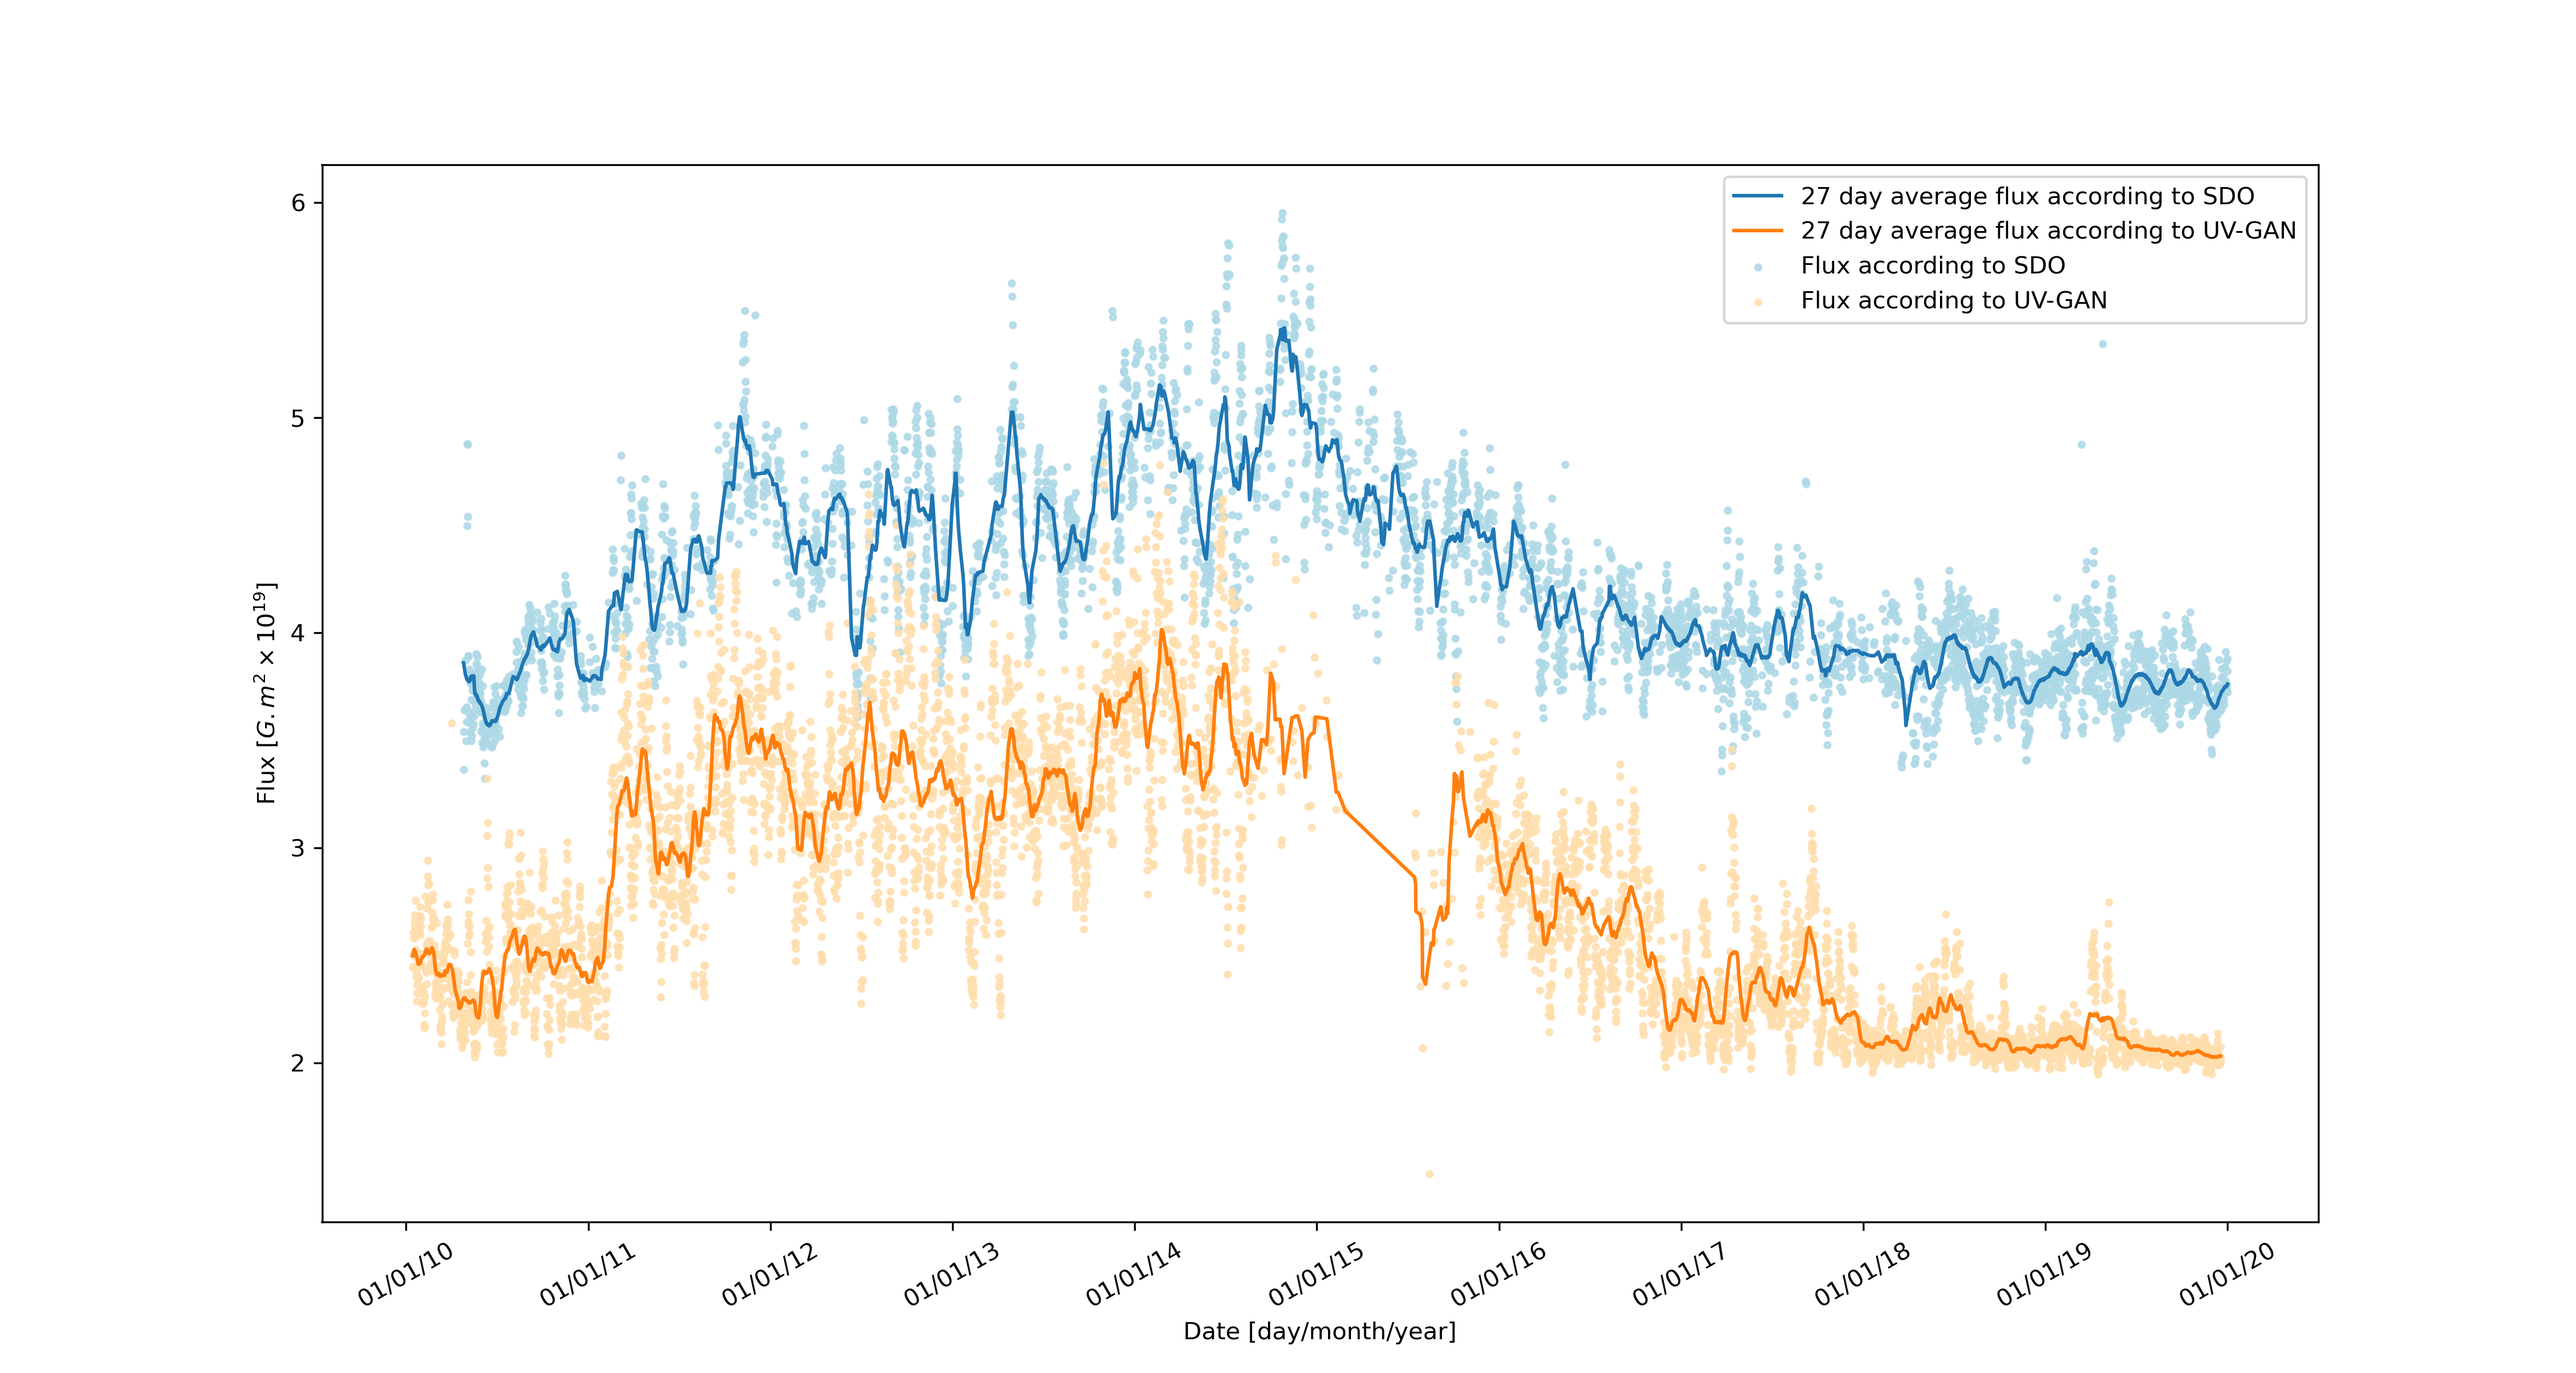
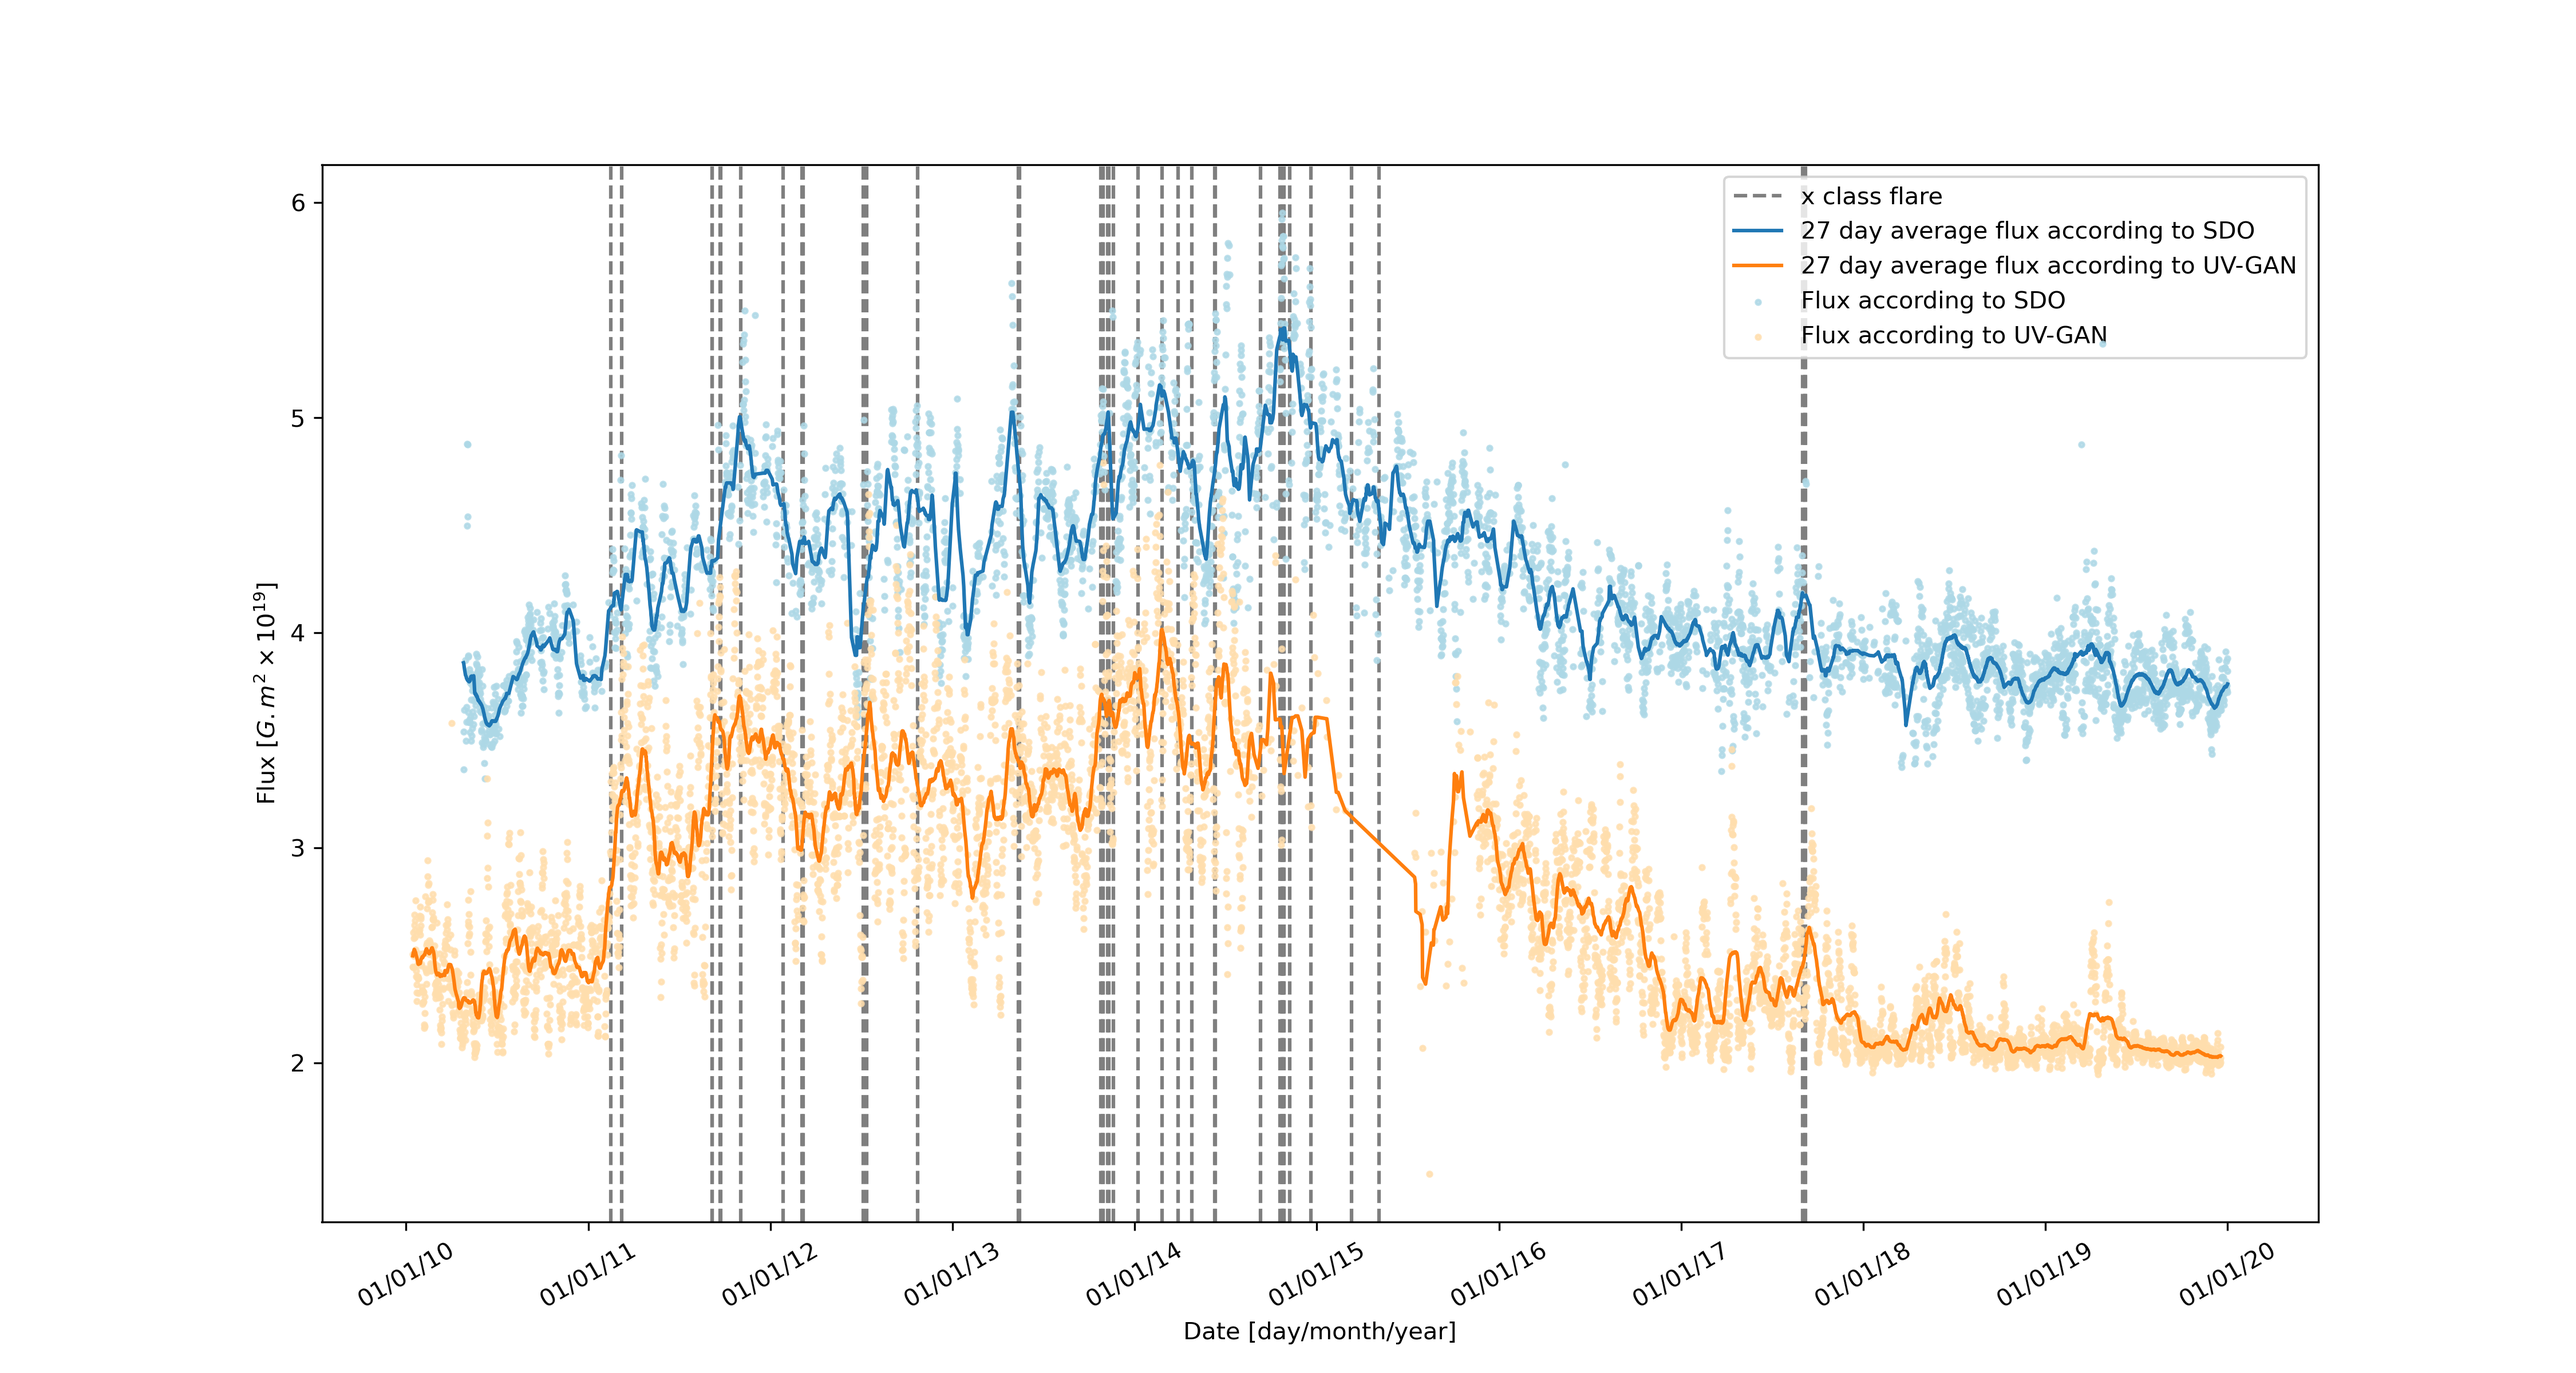
flux

diff --git a/thesis.tex b/thesis.tex
@@ -128,6 +128,18 @@ Supervisors: Andrew Casey, Alina Donea}
 
 \chapter*{Acknowledgements}
 
+
+% Andy and Alina for their support and invaluable feedback
+% Bernhard being very accomadating and willing to help/spend time and effort to
+% ensure we weren't adversaly effected by lockdowns/etc
+
+% Friends and family and lovely girlfriend for keeping me sane, and making my
+% offtime so much more enjoyable
+
+% Everyone mentioned a huge contribution into making the past year and
+% especially the past semester much more pleasant
+
+
 \tableofcontents
 
 
@@ -2820,7 +2832,7 @@ we split these four points into two triangles defined by the vectors
 \((\bm{c}-\bm{a}, \bm{b} - \bm{a}) \) and \((\bm{c}-\bm{a}, \bm{d} - \bm{a}) \).
 The areas of these triangles can be found according to
 \begin{align}
-  A = \frac{1}{2} \abs*{\bm{v}_1 \times \bm{v}_2} \, ,
+  A_{\text{Triangle}} = \frac{1}{2} \abs*{\bm{v}_1 \times \bm{v}_2} \, ,
 \end{align}
 where \(\bm{v}_1\), \(\bm{v}_2\) are the vectors defining the triangle. By
 summing over the areas of both triangles, we obtain an estimate of the surface
@@ -2835,6 +2847,7 @@ magnetogram in addition to the area and unsigned magnetic flux for each pixel.
   \item the UV-GAN flux vs the SDO flux
   \item Figure \ref{fig:flux_sdo_uv} show the uv vs sdo flux
   \item there is a bias
+  \item UV-GAN is able to reproduce the variations over smaller time scales
   \item unclear whether this is a property of the GAN or if this was caused by a
   bug
   \item what matters is the relative flux
@@ -2844,6 +2857,11 @@ magnetogram in addition to the area and unsigned magnetic flux for each pixel.
   more intense magnetic activity
   \item despite normalising the UV-data it is still able to reproduce the
   general curve given by the solar cycle.
+
+  \item most peaks and troughs seen in the SDO data is also seen in the UV-GAN data
+  
+  \item when the sun is very quite, the seismic map signal is dominated by the
+  noise, which paradoxically leads to large peaks. 
 
   \item by inspecting the individual images, we see that the UV-GAN is able
   produce realistic images that caputure the position and the shape of the
@@ -2890,19 +2908,40 @@ magnetogram in addition to the area and unsigned magnetic flux for each pixel.
 \section{Seismic GAN}
 
 \begin{itemize}
-  \item does not show small time scale variations seen in SDO
+  \item produce physcally realistic data
+  \item these did not actually correspond to the true magnetic field very well.
+  \item we calculated the unsigned magnetic flux for these images
+  
+  \item UV-GAN is able to reproduce the variations over smaller time scales
+  \item this is not the case for the seismic GAN, does not show small time scale
+  variations seen in SDO
   \item this is likely due to the fact that the seismic images are generated by
   integrating over a period of ... hours, while the SDO iamges are essentially
   instantaneous.
+
+  \item solar flares have associatd peaks
+  \item peaks correspond to solar flares
+  \item most peaks and troughs in SDO have corresponding peaks and troughs in
+  the orange. 
+  \item big discrepency in 2012 and 2018:
+  this is not without exception however, Seismic-GAN predicts a peak in
+  late 2018, which is a trough in SDO, similar midway through 2012
+  \item show images near these times 
+  \item figure out what is going on
+  \item once again the 
+  \item the overall trend in the solar cycle is much less pronounced
 
 \end{itemize}
 
 \begin{figure}
   \centering
-  \includegraphics[width=\linewidth]{Flux_vs_time.png}
+  \includegraphics[width=\linewidth]{Flux_SDO_Seismic_average.png}
   \label{fig:flux_sdo_seismic}
-  \caption{The total unsigned magnetic flux according to SDO (blue), the UV GAN
-  (orange) and the Seismic GAN (Green) as a function of time. }
+  \caption{The total unsigned magnetic flux according to SDO (blue) and the
+  seismic-GAN as a function of time. Solid lines represent the average across 27
+  days (roughly one rotational period) while dots represent individual
+  magnetograms. The verticle grey lines indicate X-class solar flares, using
+  data provided by \url{www.spaceweatherlive.com/}.}
 \end{figure}
 
 \begin{itemize}
